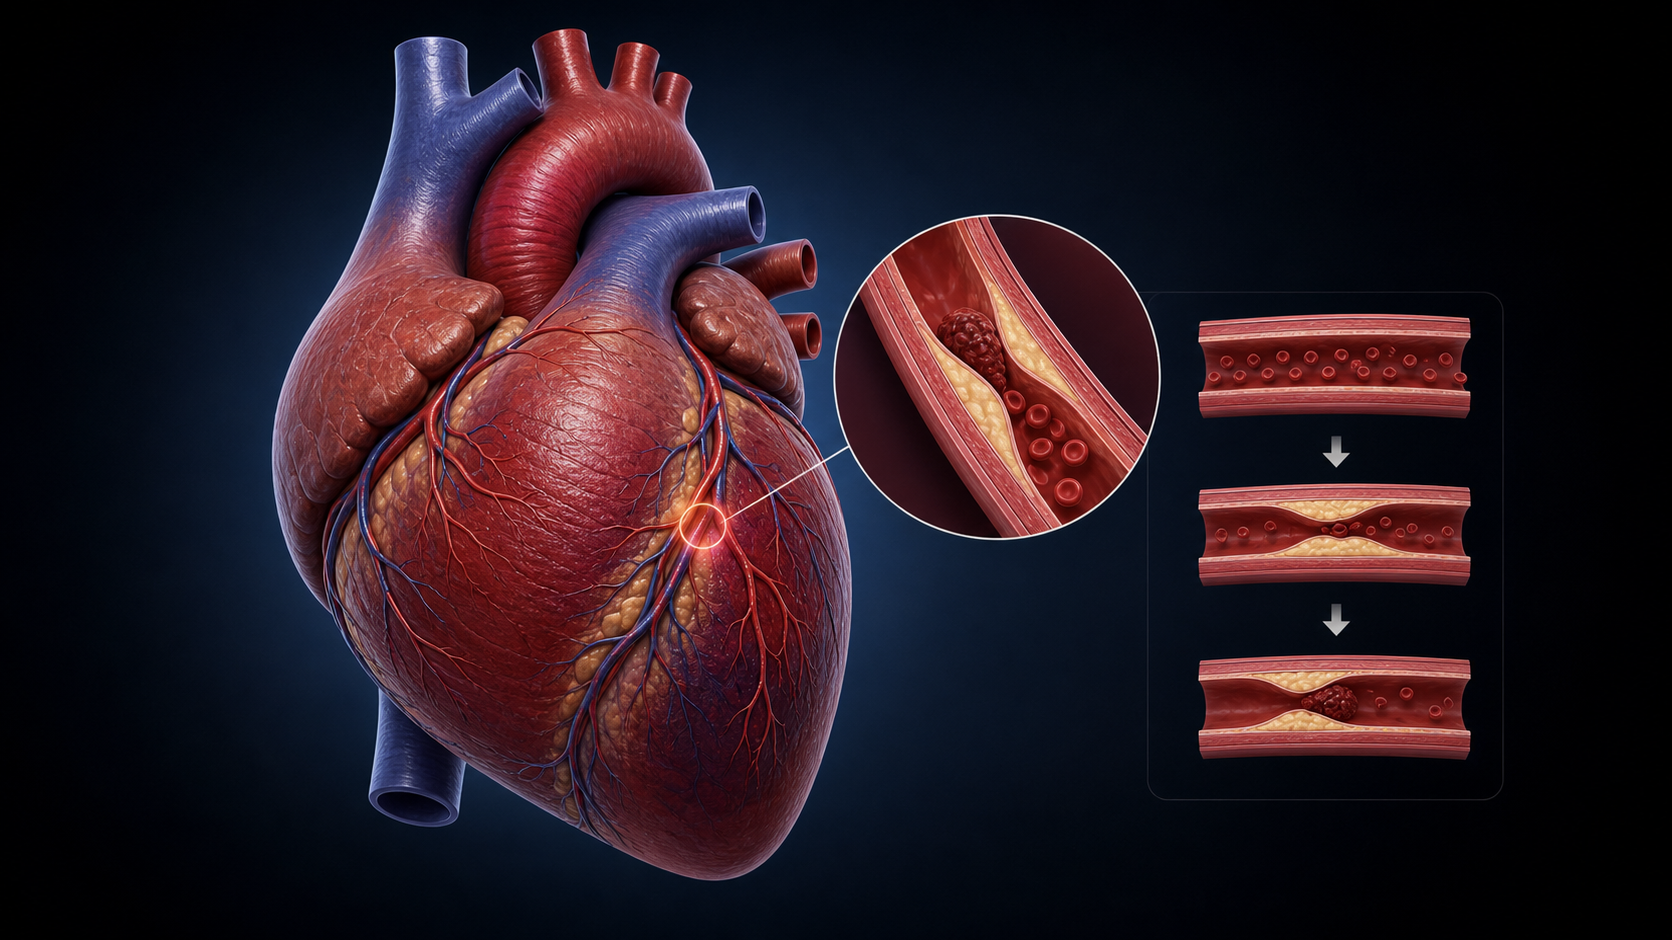
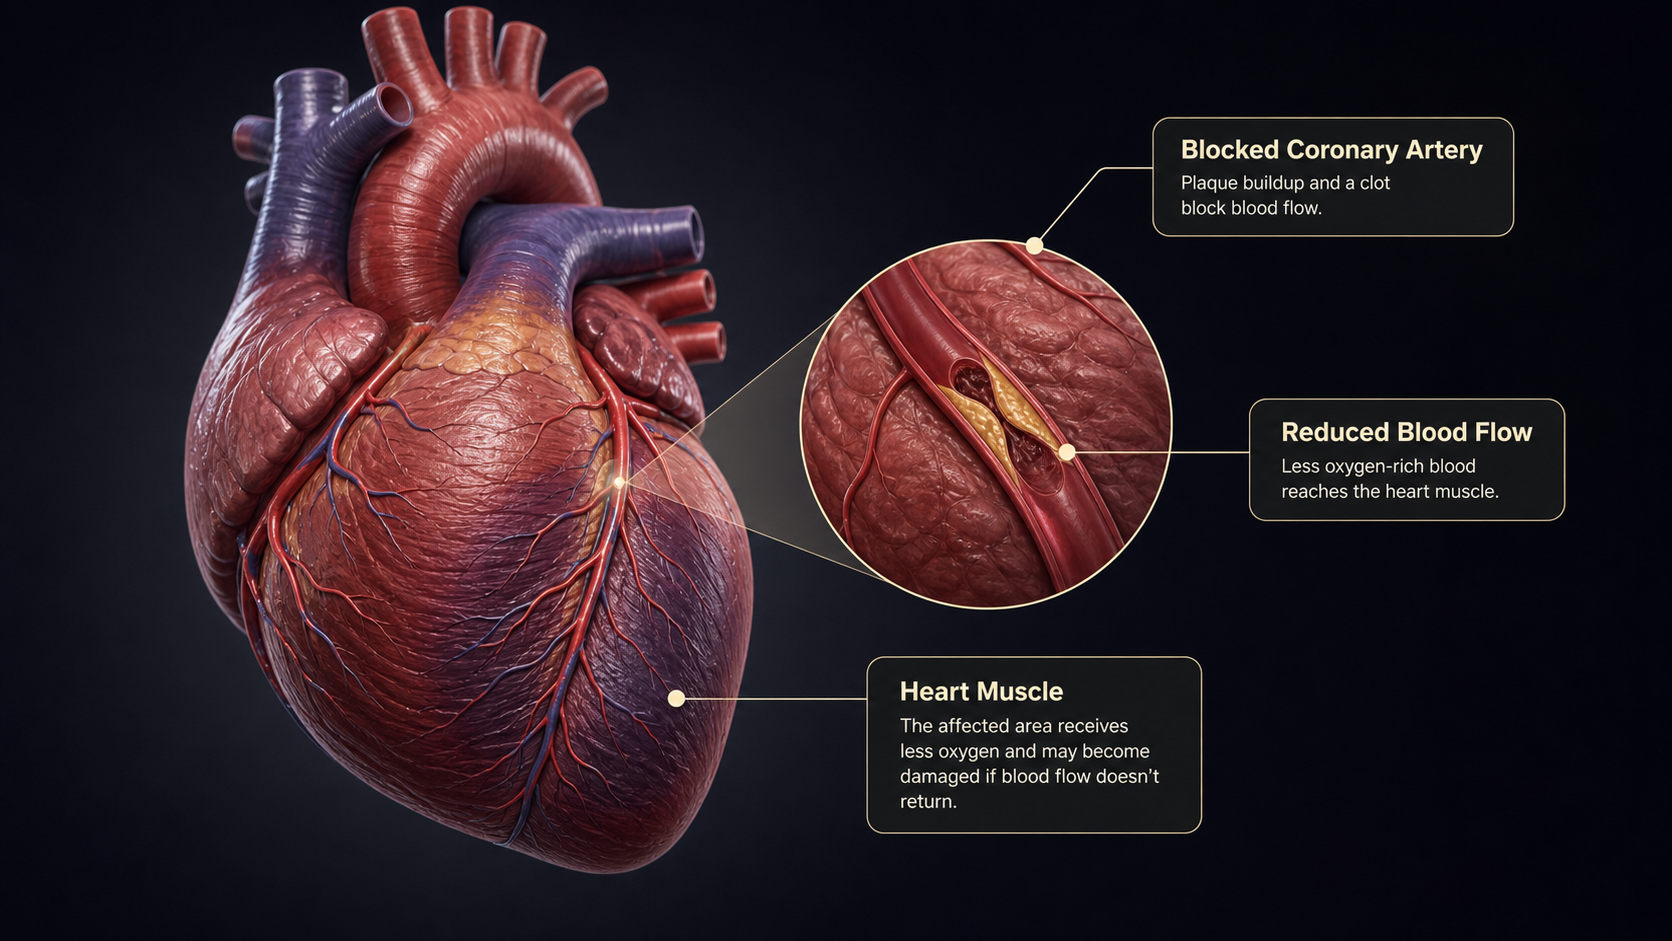
Learn theater: bigger panel (1680x1320), straight-on, no overlapping footer, more forward

diff --git a/Anatomy/ImmersiveView.swift b/Anatomy/ImmersiveView.swift
@@ -60,13 +60,13 @@ struct ImmersiveView: View {
     /// Panel width per mode — narrower in Labels so right-side callouts have room.
     private var panelWidthForMode: CGFloat {
         switch appModel.selectedStudyMode {
-        case .learn:  return 1360   // theater: wide, centered reader
+        case .learn:  return 1680   // theater: wide, centered reader
         case .labels: return 600    // narrower so right-side callouts have room
         default:      return viewerLayout.panelWidth
         }
     }
     private var panelHeightForMode: CGFloat {
-        learnActive ? 1200 : ImmersiveLayoutConfig.panelHeight
+        learnActive ? 1320 : ImmersiveLayoutConfig.panelHeight
     }
     // Faces the viewer straight on in the centered Learn theater; angled inward otherwise.
     private var panelOrientation: simd_quatf {
@@ -293,7 +293,7 @@ struct ImmersiveView: View {
                 .opacity(panelVisible ? 1 : 0.001)
                 // Theater Learn mode: glide the panel to centre and forward, covering the scene.
                 .offset(x: learnActive ? CGFloat(-panelPosition.x * 1360) : 0)
-                .offset(z: learnActive ? 280 : 0)
+                .offset(z: learnActive ? 340 : 0)
                 .animation(.spring(response: 0.6, dampingFraction: 0.82), value: appModel.selectedStudyMode)
             }
 
@@ -1378,7 +1378,8 @@ private struct ImmersiveInfoPanel: View {
         // Pinned footer — Start Quiz / Learn More are always visible regardless of
         // how tall the scrolling content is (fixes the clipped button on Brain).
         .safeAreaInset(edge: .bottom, spacing: 0) {
-            if studyMode != .quiz {
+            // No footer buttons in the Learn theater — the reader fills the whole panel.
+            if studyMode != .quiz && studyMode != .learn {
                 VStack(spacing: 12) {
                     Button(action: onStartQuiz) {
                         HStack(spacing: 10) {
